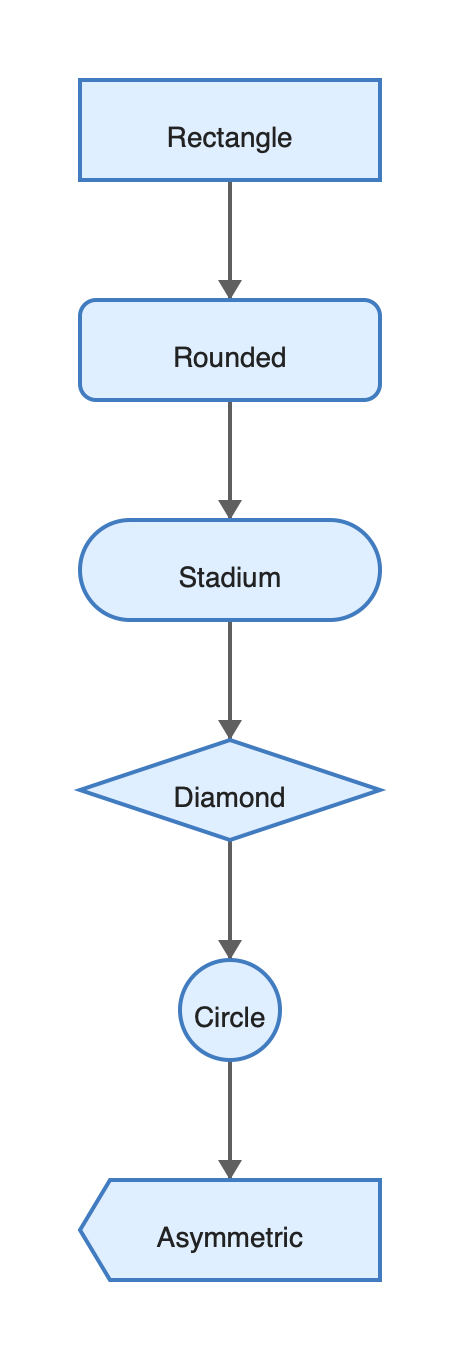
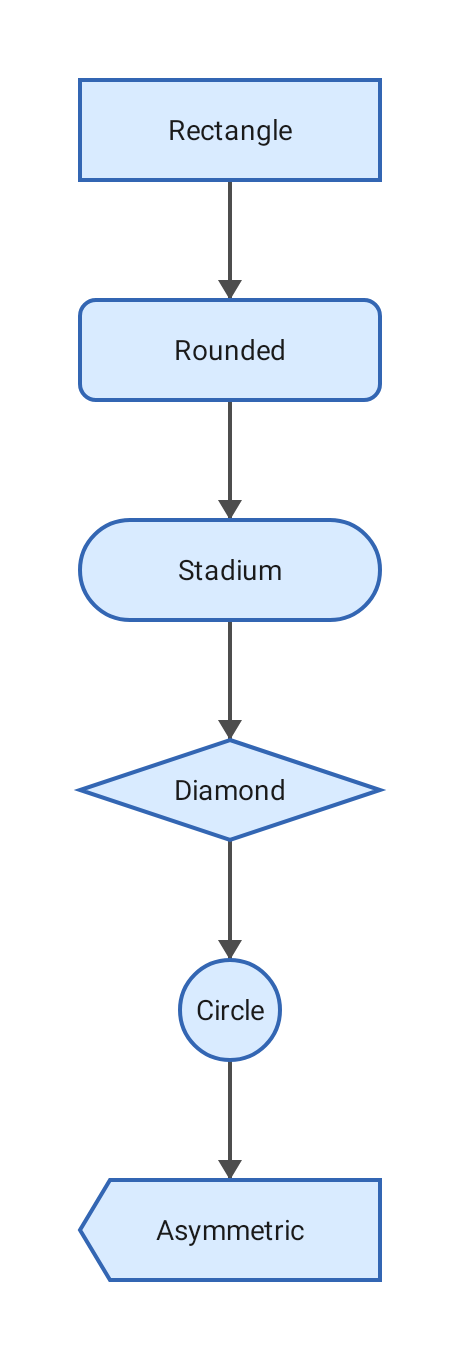
Generate example PNGs from native Android renderer
- Fix DiagramRenderer.kt: add missing model.* import (NodeShape, EdgeStyle, MessageStyle)
- Add GenerateExamplesTest.kt: Robolectric tests that render diagrams to PNG
- Replace example PNGs with ones genuinely generated by the Kotlin/Android renderer
- All 33 tests passing (21 parser + 9 layout + 3 examples)

diff --git a/mermaidkotlin/src/test/kotlin/com/mermaid/kotlin/GenerateExamplesTest.kt b/mermaidkotlin/src/test/kotlin/com/mermaid/kotlin/GenerateExamplesTest.kt
@@ -1,0 +1,85 @@
+package com.mermaid.kotlin
+
+import com.mermaid.kotlin.renderer.DiagramRenderer
+import org.junit.Test
+import org.junit.runner.RunWith
+import org.robolectric.RobolectricTestRunner
+import org.robolectric.annotation.Config
+import org.robolectric.annotation.GraphicsMode
+import java.io.File
+
+/**
+ * Generates example PNG files from Mermaid DSL for README screenshots.
+ *
+ * Run with: ./gradlew :mermaidkotlin:test --tests "*.GenerateExamplesTest"
+ *
+ * Output: /tmp/Mermaid-Android/examples/
+ */
+@RunWith(RobolectricTestRunner::class)
+@Config(sdk = [34])
+@GraphicsMode(GraphicsMode.Mode.NATIVE)
+class GenerateExamplesTest {
+
+    private val mermaid = MermaidKotlin()
+
+    @Test
+    fun generateFlowchartExample() {
+        val bitmap = mermaid.render("""
+            flowchart TD
+                A[Rectangle] --> B(Rounded)
+                B --> C([Stadium])
+                C --> D{Diamond}
+                D --> E((Circle))
+                E --> F>Asymmetric]
+        """.trimIndent())
+
+        val pngBytes = DiagramRenderer.pngData(bitmap)
+        val outFile = File("/tmp/Mermaid-Android/examples/flowchart.png")
+        outFile.parentFile.mkdirs()
+        outFile.writeBytes(pngBytes)
+        println("✓ examples/flowchart.png (${pngBytes.size} bytes, ${bitmap.width}x${bitmap.height})")
+        assert(pngBytes.size > 100) { "PNG too small" }
+        // Verify PNG magic bytes
+        assert(pngBytes[0] == 0x89.toByte())
+        assert(pngBytes[1] == 0x50.toByte()) // P
+        assert(pngBytes[2] == 0x4E.toByte()) // N
+        assert(pngBytes[3] == 0x47.toByte()) // G
+    }
+
+    @Test
+    fun generateSequenceExample() {
+        val bitmap = mermaid.render("""
+            sequenceDiagram
+                participant A as Alice
+                actor B as Bob
+                A->>B: Solid arrow
+                A-->>B: Dotted arrow
+                A-)B: Async
+                A--)B: Dotted async
+        """.trimIndent())
+
+        val pngBytes = DiagramRenderer.pngData(bitmap)
+        val outFile = File("/tmp/Mermaid-Android/examples/sequence.png")
+        outFile.parentFile.mkdirs()
+        outFile.writeBytes(pngBytes)
+        println("✓ examples/sequence.png (${pngBytes.size} bytes, ${bitmap.width}x${bitmap.height})")
+        assert(pngBytes.size > 100) { "PNG too small" }
+    }
+
+    @Test
+    fun generatePieExample() {
+        val bitmap = mermaid.render("""
+            pie title Distribution
+                "Category A" : 40
+                "Category B" : 35
+                "Category C" : 25
+        """.trimIndent())
+
+        val pngBytes = DiagramRenderer.pngData(bitmap)
+        val outFile = File("/tmp/Mermaid-Android/examples/pie.png")
+        outFile.parentFile.mkdirs()
+        outFile.writeBytes(pngBytes)
+        println("✓ examples/pie.png (${pngBytes.size} bytes, ${bitmap.width}x${bitmap.height})")
+        assert(pngBytes.size > 100) { "PNG too small" }
+    }
+}

diff --git a/mermaidkotlin/src/main/kotlin/com/mermaid/kotlin/renderer/DiagramRenderer.kt b/mermaidkotlin/src/main/kotlin/com/mermaid/kotlin/renderer/DiagramRenderer.kt
@@ -2,6 +2,7 @@ package com.mermaid.kotlin.renderer
 
 import android.graphics.*
 import com.mermaid.kotlin.layout.*
+import com.mermaid.kotlin.model.*
 import java.io.ByteArrayOutputStream
 import kotlin.math.atan2
 import kotlin.math.cos
